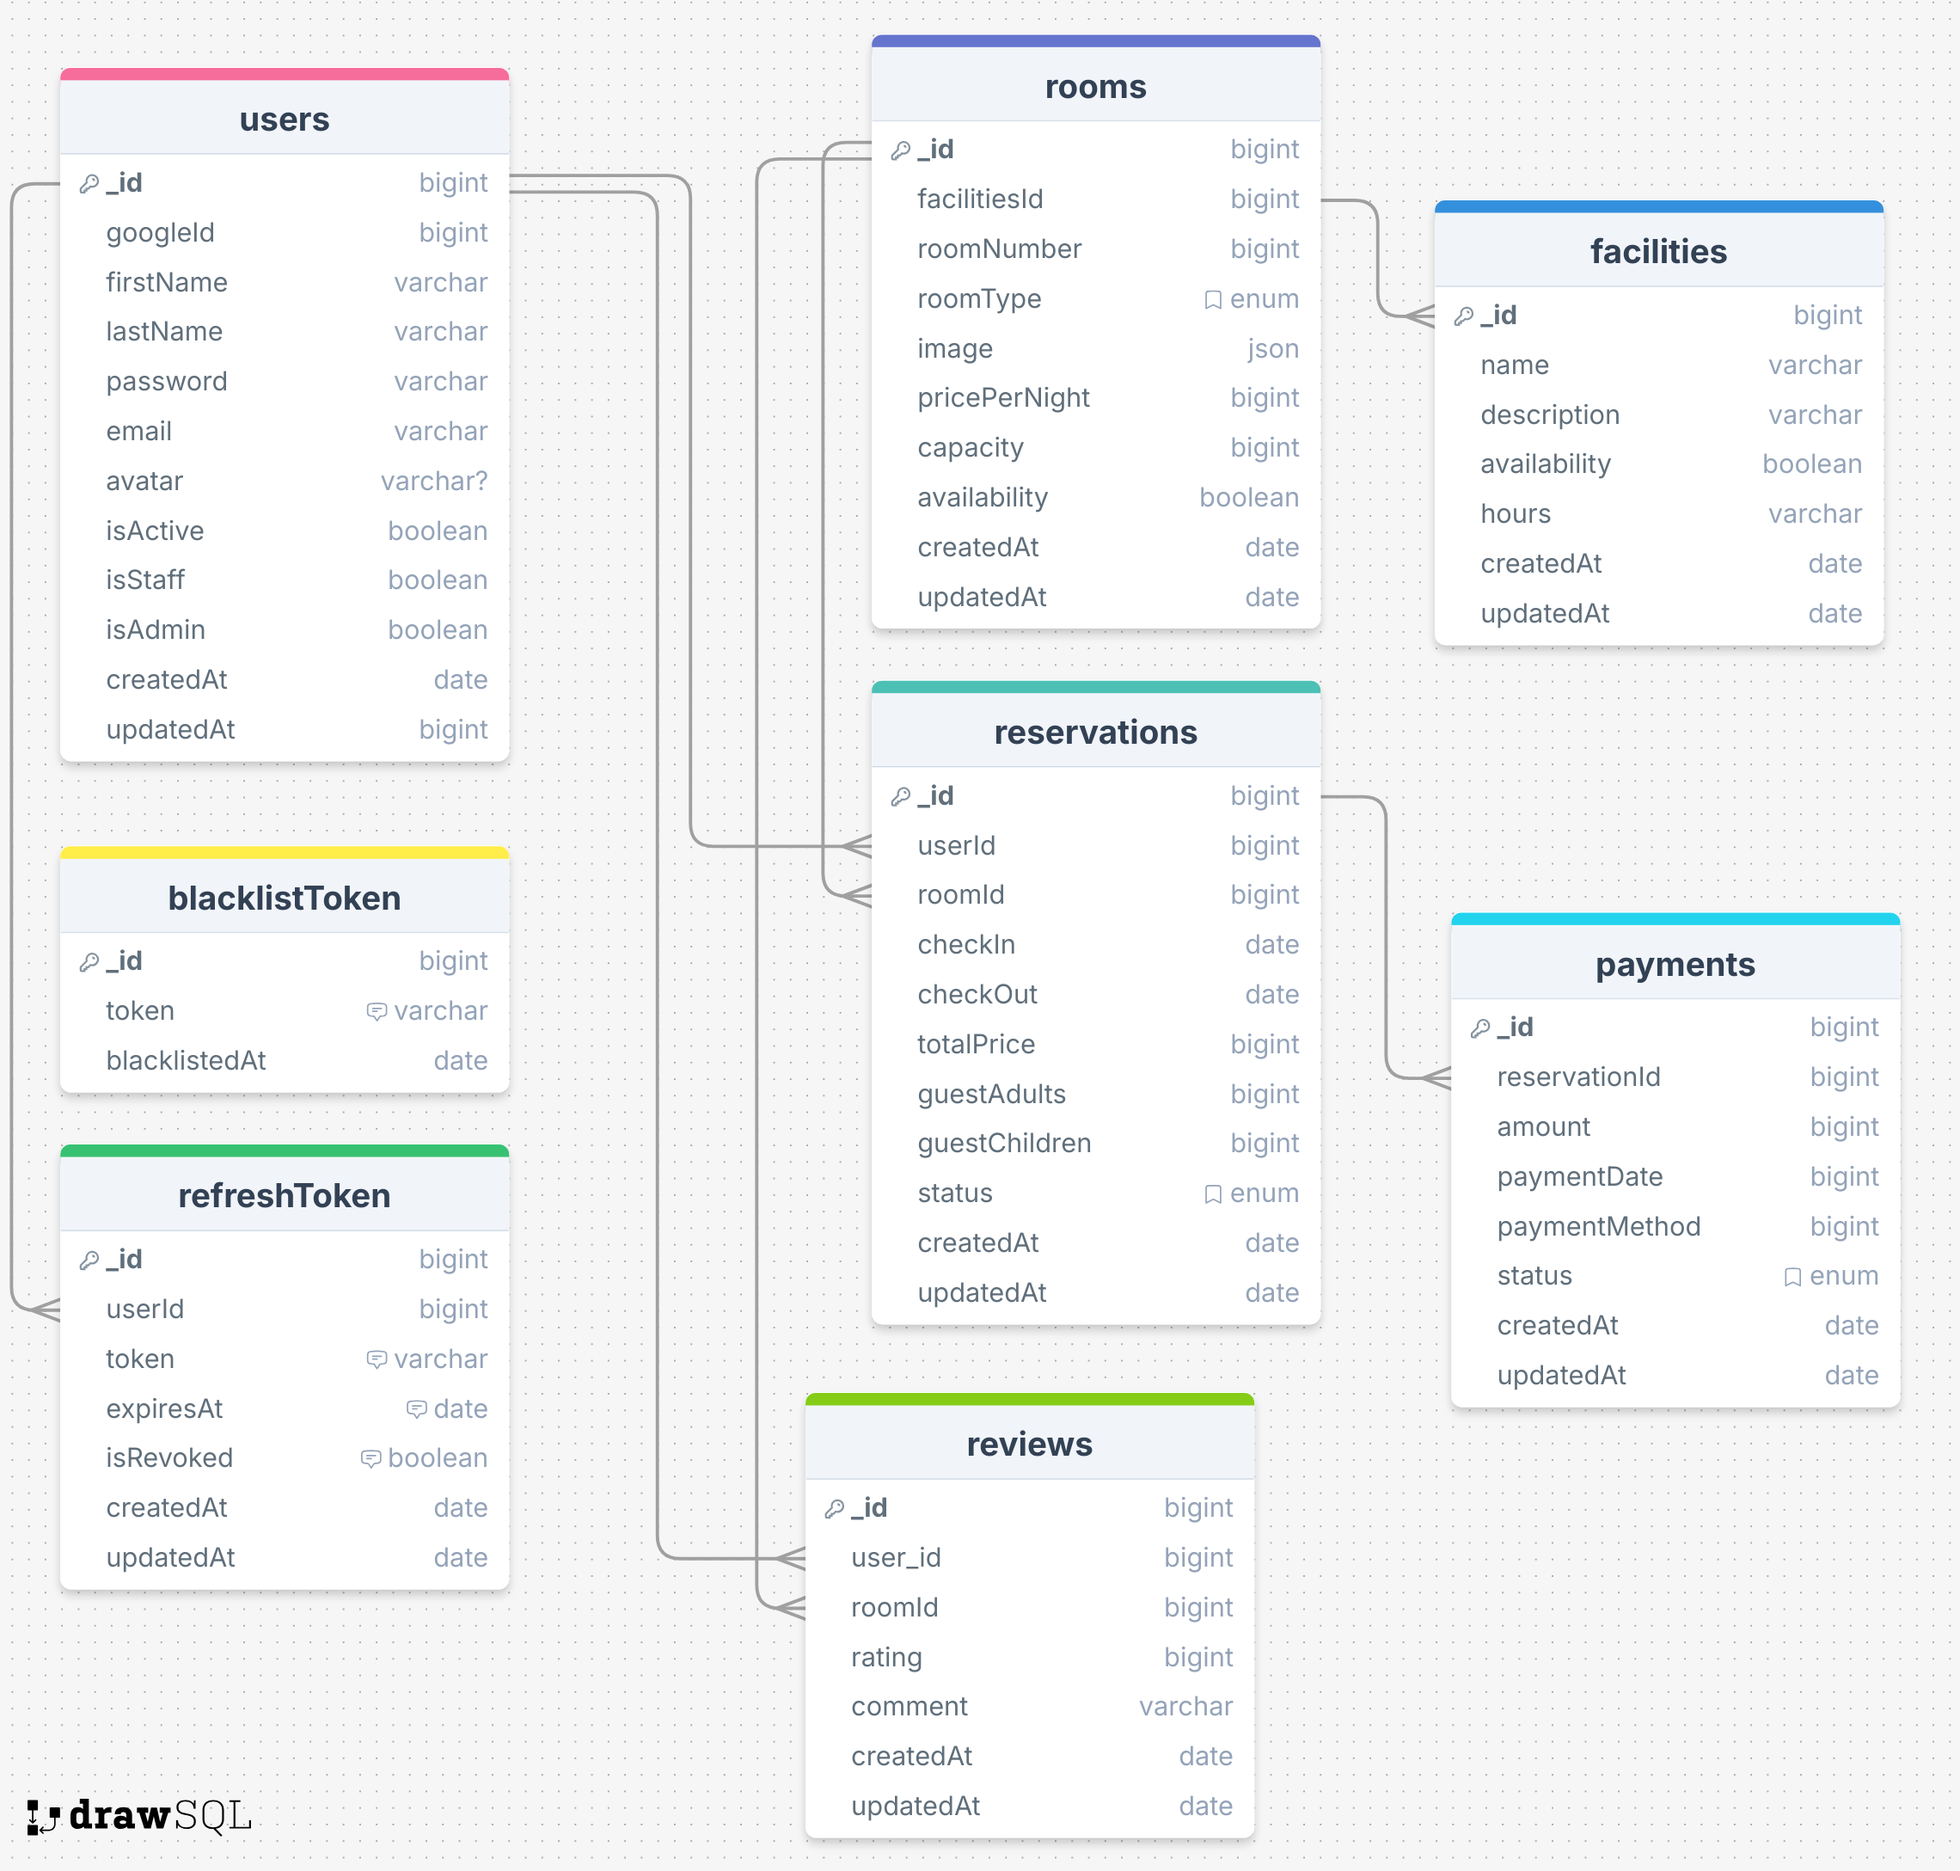
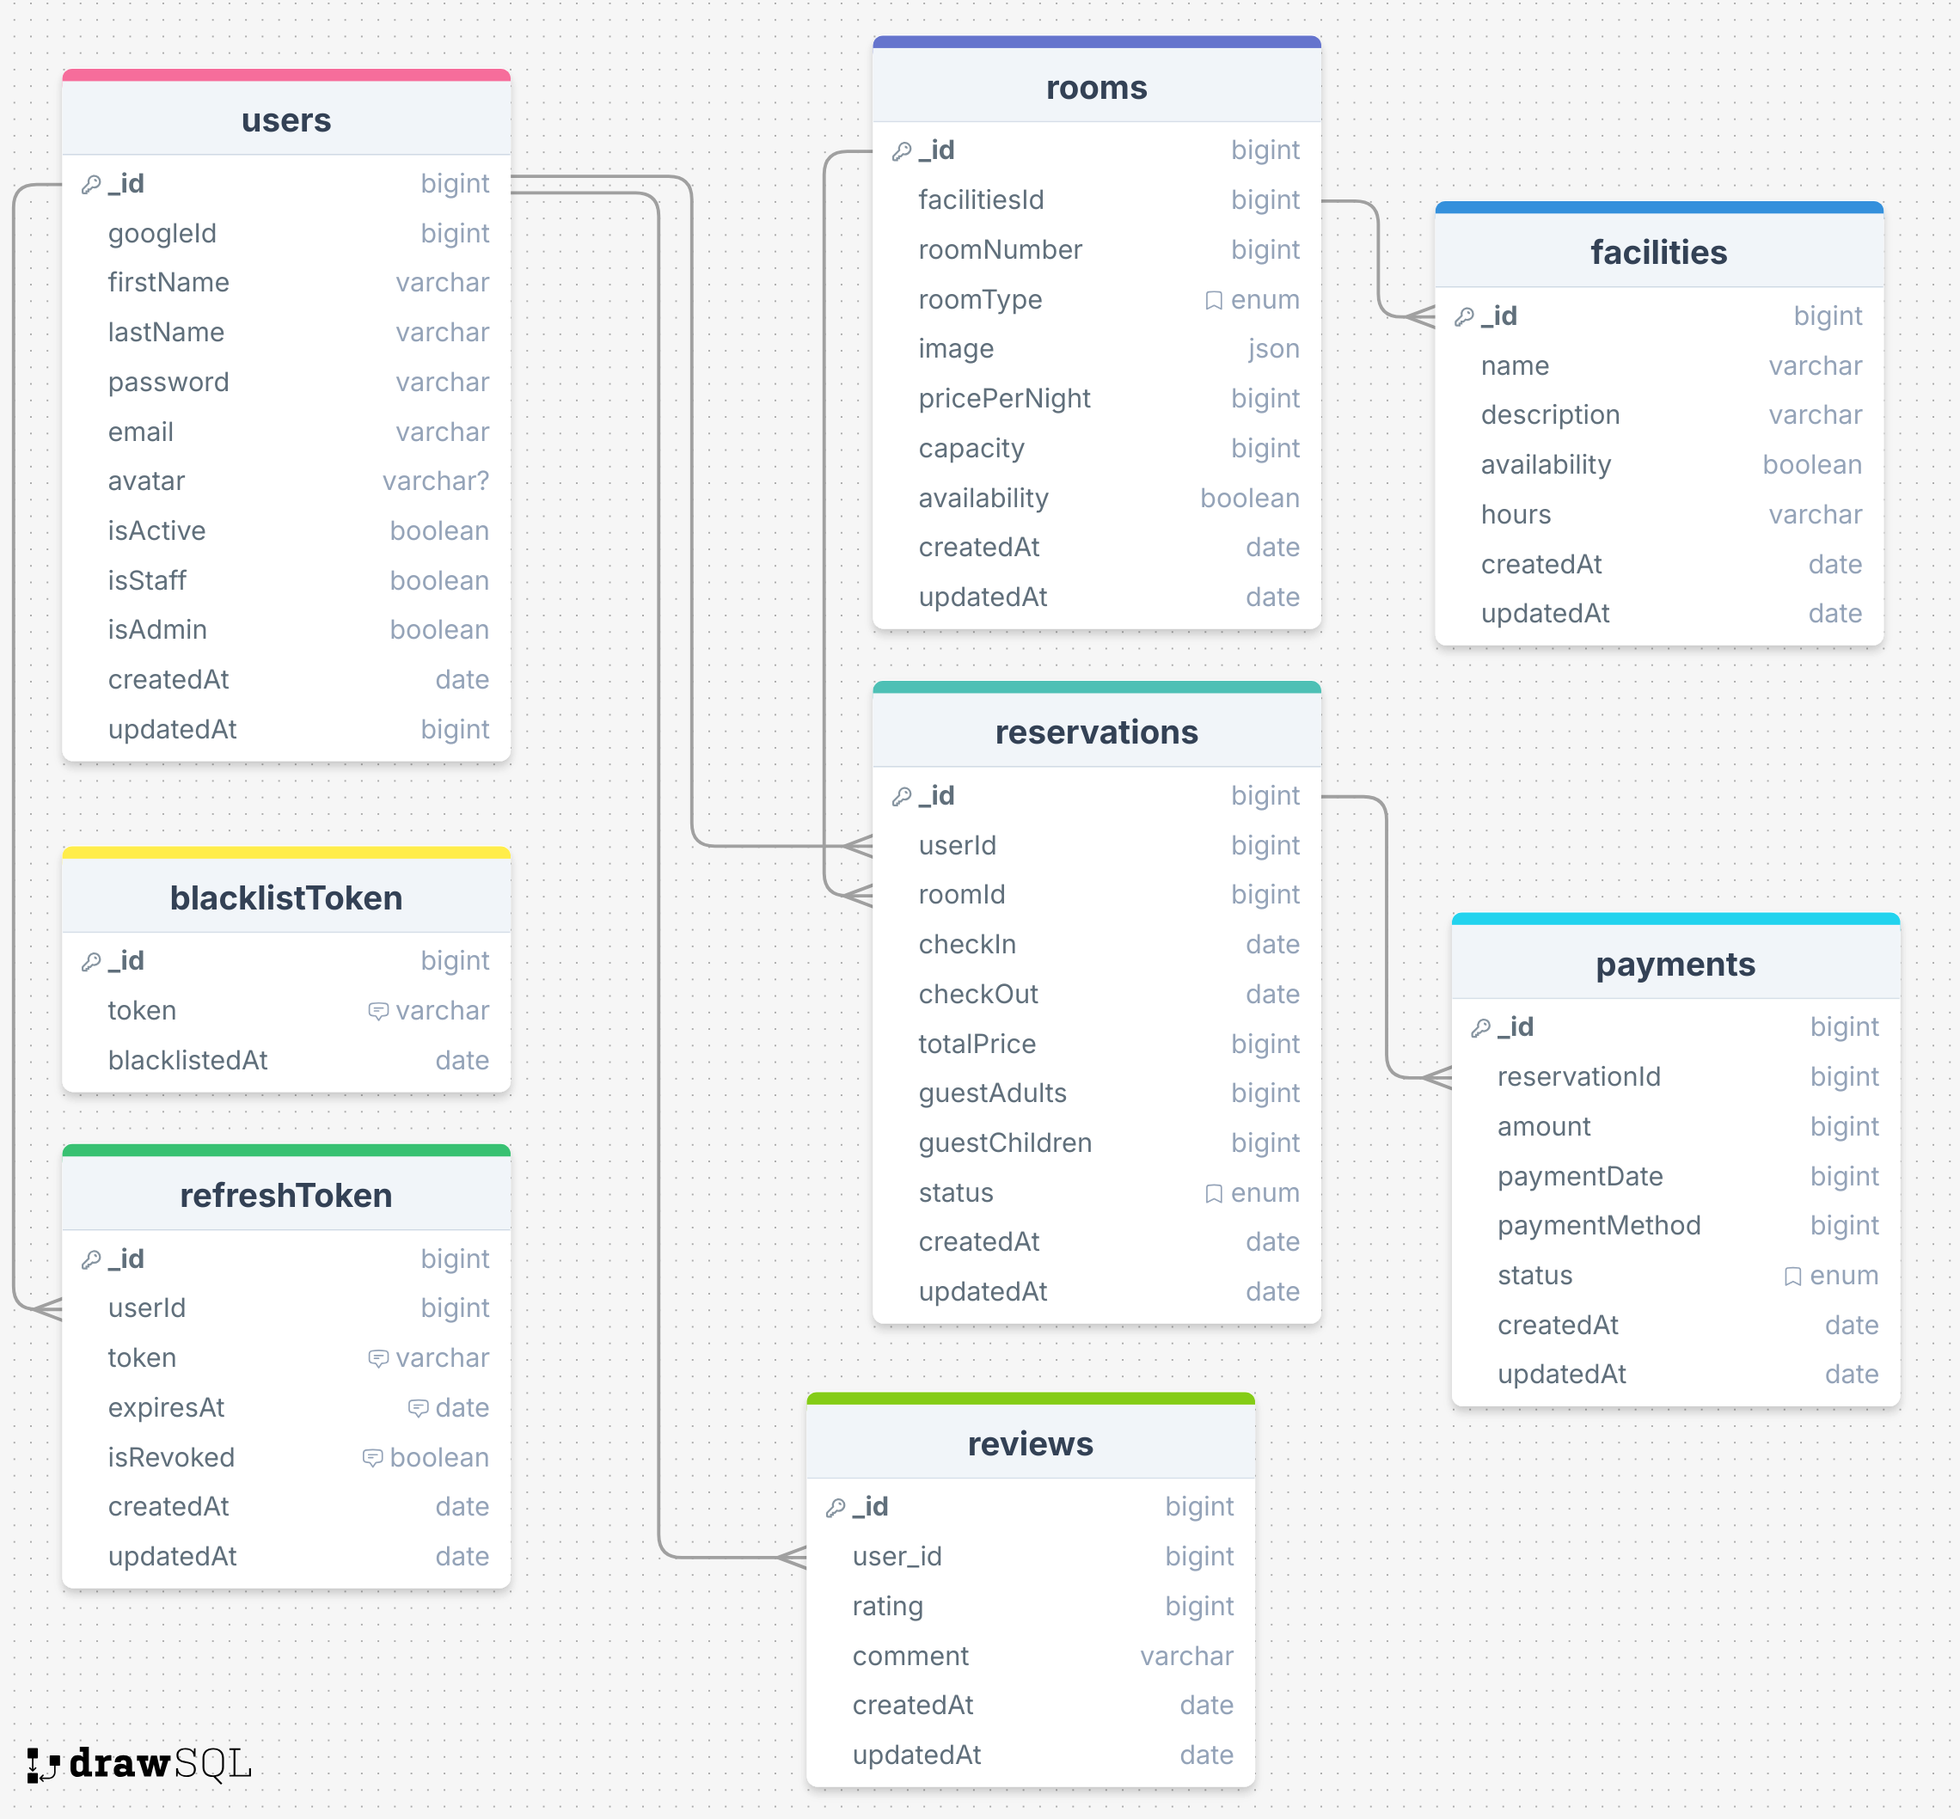
[feat] Add CORS,  update package dependencies, modify controllers and models

diff --git a/src/middlewares/queryHandler.js b/src/middlewares/queryHandler.js
@@ -1,0 +1,109 @@
+module.exports = (req, res, next) => {
+  //! Filtering
+  const filter = req.query?.filter || {};
+
+  //* Searching
+  const search = req.query?.search || {};
+  for (let key in search) {
+    search[key] = { $regex: search[key], $options: "i" };
+  }
+
+  //? Sorting
+  const sort = req.query?.sort || "-createdAt";
+
+  //! Price filtering
+  const priceRange = req.query?.priceRange || {};
+
+  if (priceRange.min && priceRange.max) {
+    filter.pricePerNight = { $gte: priceRange.min, $lte: priceRange.max };
+  } else if (priceRange.min) {
+    filter.pricePerNight = { $gte: priceRange.min };
+  } else if (priceRange.max) {
+    filter.pricePerNight = { $lte: priceRange.max };
+  }
+
+  //* Room type filtering
+  const roomType = req.query?.roomType || null;
+  if (roomType) {
+    filter.roomType = roomType;
+  }
+
+  //* Star rating filtering
+  const starRating = req.query?.starRating || null;
+  if (starRating) {
+    filter.starRating = starRating;
+  }
+
+  //* Facilities filtering
+  const facilities = req.query?.facilities || null;
+  if (facilities) {
+    filter.facilities = { $in: facilities };
+  }
+
+  //* Availability filtering
+  const available = req.query?.available || null;
+  if (available) {
+    filter.isAvailable = available === "true";
+  }
+
+  //* Pagination
+  //! Limit
+  let limit = Number(req.query?.limit);
+  limit = limit > 0 ? limit : 6;
+
+  //? Page
+  let page = Number(req.query?.page);
+  page = page > 0 ? page - 1 : 0;
+
+  //! Skip
+  let skip = Number(req.query?.skip);
+  skip = skip > 0 ? skip : page * limit;
+
+  res.getModelList = async function (
+    Model,
+    customFilter = {},
+    populate = null
+  ) {
+    return await Model.find({ ...filter, ...customFilter, ...search })
+      .sort(sort)
+      .limit(limit)
+      .skip(skip)
+      .populate(populate);
+  };
+
+  res.getModelListDetails = async (Model, customFilter = {}) => {
+    const totalRecords = await Model.countDocuments({
+      ...filter,
+      ...customFilter,
+      ...search,
+    });
+    const data = await Model.find({ ...filter, ...customFilter, ...search })
+      .sort(sort)
+      .limit(limit)
+      .skip(skip);
+
+    let details = {
+      filter,
+      customFilter,
+      search,
+      sort,
+      skip,
+      limit,
+      page,
+      pages: {
+        previous: page > 0 ? page : false,
+        activePage: page + 1,
+        next: page + 2,
+        totalPage: Math.ceil(totalRecords / limit),
+      },
+      totalRecords,
+    };
+
+    details.pages.next =
+      details.pages.next > details.pages.totalPage ? false : details.pages.next;
+    if (details.totalRecords <= limit) details.pages = false;
+    return details;
+  };
+
+  next();
+};

diff --git a/index.js b/index.js
@@ -10,10 +10,21 @@ const app = express();
 /* ------------------------------------------------------- */
 
 //* cron job
-const job = require("./src/helpers/cron");
-console.log("Cron job is being started...");
-// Start the cron job
-job.start();
+// const job = require("./src/helpers/cron");
+// console.log("Cron job is being started...");
+// // Start the cron job
+// job.start();
+
+// CORS
+const cors = require("cors");
+
+const corsOptions = {
+  origin: ["http://localhost:5173", "http://127.0.0.1:5173"],
+  methods: ["GET", "POST", "PUT", "PATCH", "DELETE"],
+  allowedHeaders: ["Origin", "Content-Type", "Authorization"],
+  credentials: true,
+};
+app.use(cors(corsOptions));
 
 require("dotenv").config();
 const PORT = process.env.PORT || 8000;
@@ -31,7 +42,7 @@ dbConnection();
 /* -------------------------------------------------------------------------- */
 app.use(express.json());
 
-app.use(require("./src/middlewares/findSearchSortPagi"));
+app.use(require("./src/middlewares/queryHandler"));
 
 app.use(require("./src/middlewares/authentication"));
 

diff --git a/src/controllers/user.js b/src/controllers/user.js
@@ -25,7 +25,6 @@ module.exports = {
     res.status(200).send({
       error: false,
       detail: await res.getModelListDetails(User),
-      results: users.length,
       data: users,
     });
   },
@@ -43,6 +42,27 @@ module.exports = {
         }
   }
         */
+
+    const { email, username } = req.body;
+
+    // Check if the email already exists
+    const existingUserByEmail = await User.findOne({ email });
+    if (existingUserByEmail) {
+      return res.status(400).send({
+        error: true,
+        message: "Email already exists. Please use a different email address.",
+      });
+    }
+
+    // Check if the username already exists
+    const existingUserByUsername = await User.findOne({ username });
+    if (existingUserByUsername) {
+      return res.status(400).send({
+        error: true,
+        message: "Username already exists. Please use a different username.",
+      });
+    }
+
     const newUser = await User.create(req.body);
 
     sendMail(

diff --git a/src/controllers/payment.js b/src/controllers/payment.js
@@ -25,8 +25,7 @@ module.exports = {
     const payments = await res.getModelList(Payment, {}, "reservationId");
     res.status(200).send({
       error: false,
-      details: await res.getModelListDetails(Payment),
-      results: payments.length,
+      details: await res.getModelListDetails(Payment, {}),
       data: payments,
     });
   },

diff --git a/src/models/user.js b/src/models/user.js
@@ -16,6 +16,16 @@ const UserSchema = new mongoose.Schema(
       required: true,
       unique: true,
     },
+    firstName: {
+      type: String,
+      trim: true,
+      required: true,
+    },
+    lastName: {
+      type: String,
+      trim: true,
+      required: true,
+    },
     password: {
       type: String,
       trim: true,

diff --git a/src/controllers/review.js b/src/controllers/review.js
@@ -25,8 +25,7 @@ module.exports = {
     const reviews = await res.getModelList(Review, {}, "userId");
     res.status(200).send({
       error: false,
-      details: await res.getModelListDetails(Review),
-      results: reviews.length,
+      details: await res.getModelListDetails(Review, {}),
       data: reviews,
     });
   },

diff --git a/src/controllers/reservation.js b/src/controllers/reservation.js
@@ -29,8 +29,7 @@ module.exports = {
     ]);
     res.status(200).send({
       error: false,
-      details: await res.getModelListDetails(Reservation),
-      results: reservations.length,
+      details: await res.getModelListDetails(Reservation, customFilter),
       data: reservations,
     });
   },

diff --git a/src/controllers/facility.js b/src/controllers/facility.js
@@ -26,7 +26,6 @@ module.exports = {
     res.status(200).send({
       error: false,
       details: await res.getModelListDetails(Facility),
-      results: facilities.length,
       data: facilities,
     });
   },

diff --git a/src/controllers/token.js b/src/controllers/token.js
@@ -23,7 +23,6 @@ module.exports = {
     res.status(200).send({
       error: false,
       detail: await res.getModelListDetails(Token),
-      results: tokens.length,
       data: tokens,
     });
   },

diff --git a/src/controllers/room.js b/src/controllers/room.js
@@ -23,7 +23,6 @@ module.exports = {
     res.status(200).send({
       error: false,
       detail: await res.getModelListDetails(Room),
-      results: rooms.length,
       data: rooms,
     });
   },

diff --git a/src/configs/payment/stripe/stripe.js b/src/configs/payment/stripe/stripe.js
@@ -1,0 +1,1 @@
+const stripe = require("stripe")(process.env.STRIPE_API);
